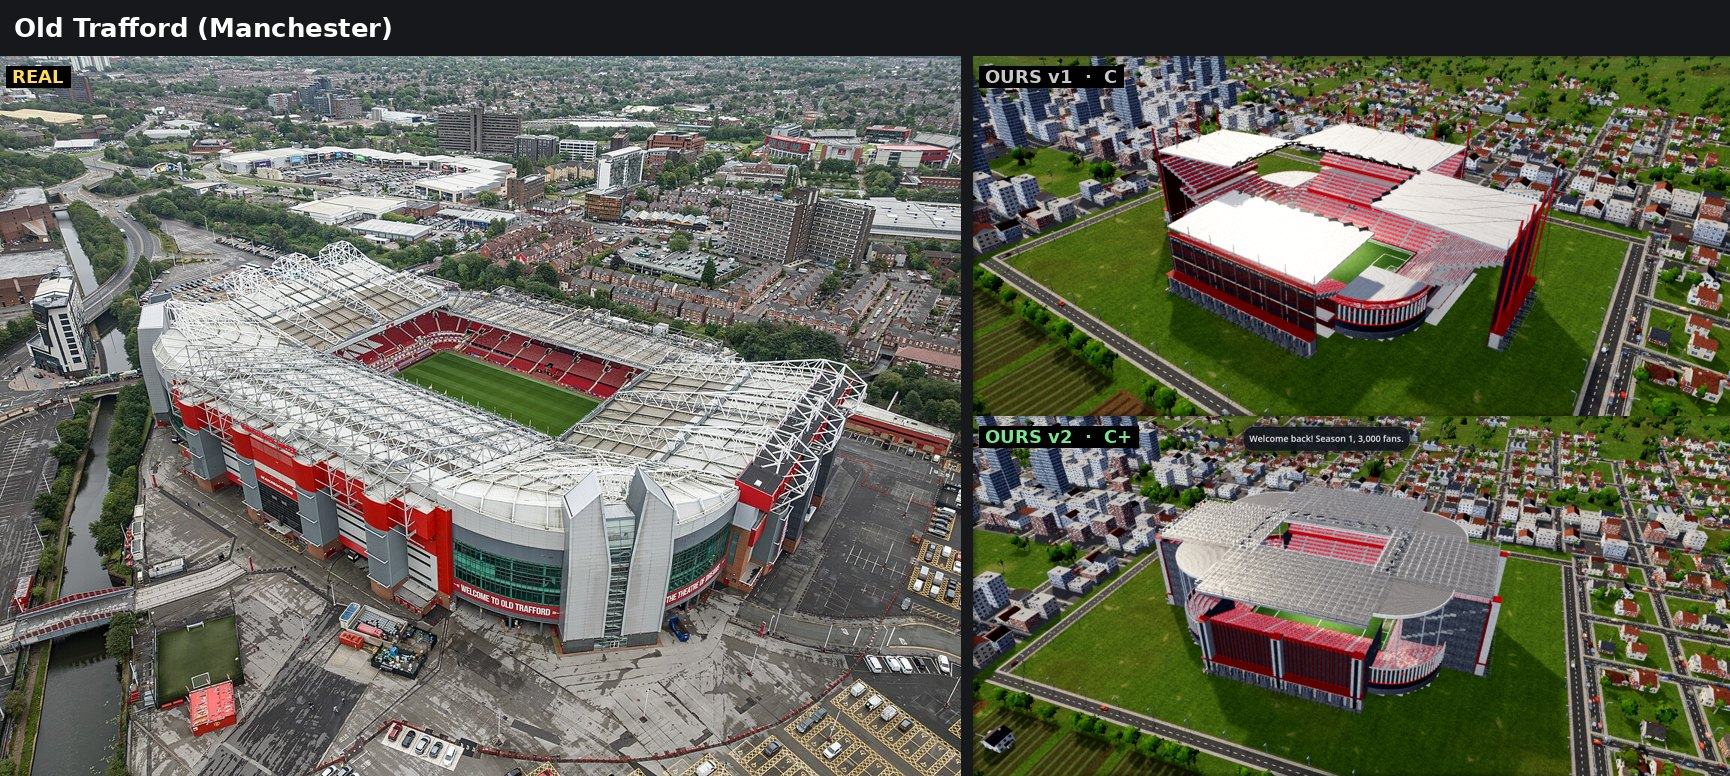
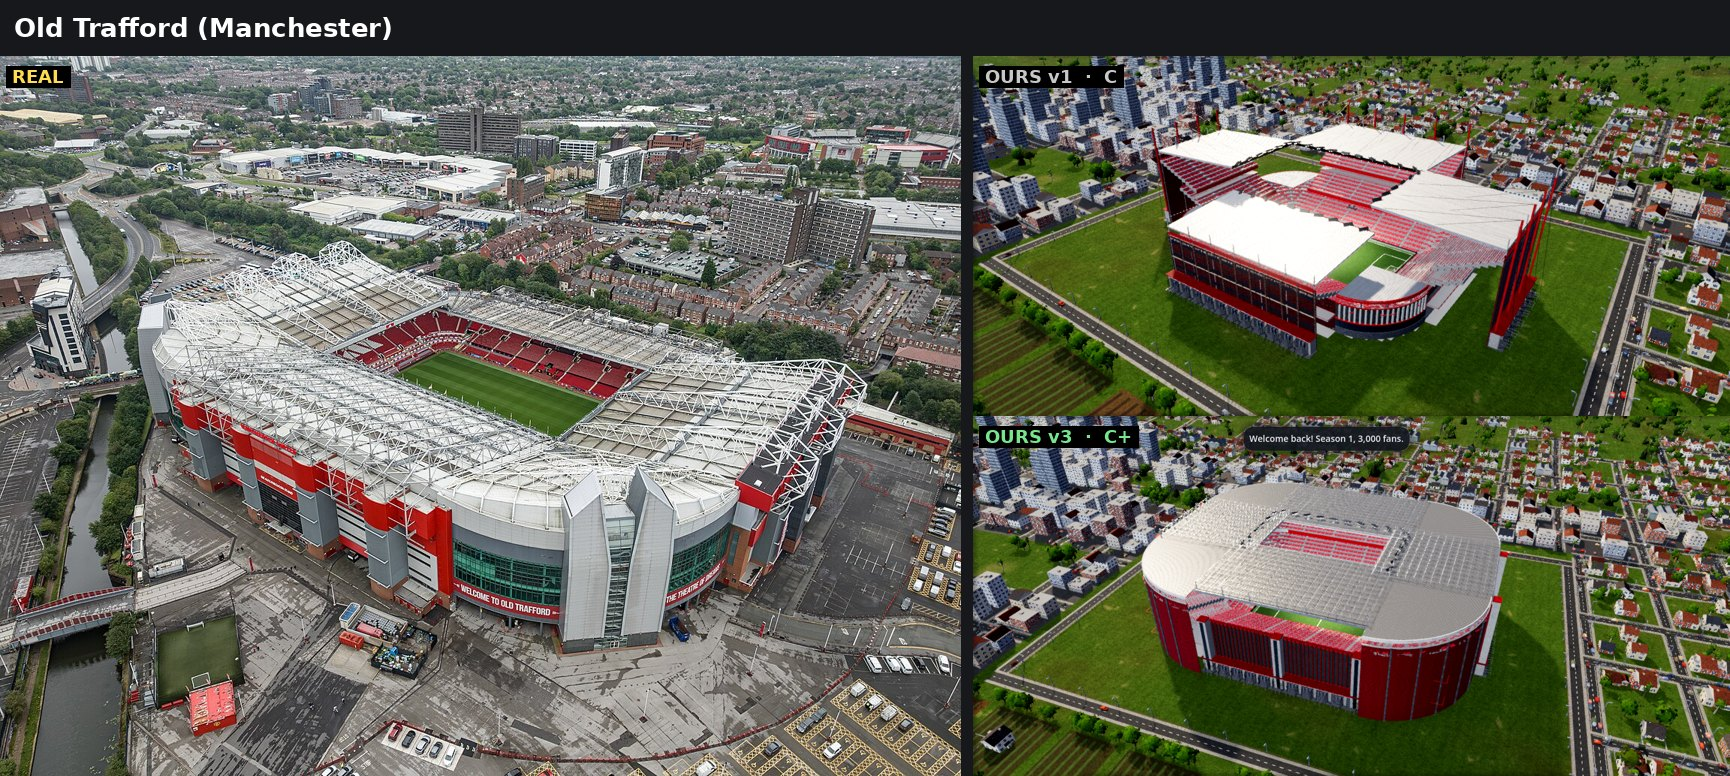
Old Trafford v3: tiered corners close the bowl; challenge notes
Claude-Session: https://claude.ai/code/session_019GL9DZKUN4T6LdW8KYydwH

diff --git a/RECREATION_CHALLENGE.md b/RECREATION_CHALLENGE.md
@@ -13,7 +13,7 @@ sides: `docs/recreation/compare/`.
 |---|---|---|---|---|
 | Signal Iduna Park | D+ | C+ | Yellow A-frame pylons outside the roof, one continuous roof ring, rounded corners, white steel trusses on top, glazed facade with the yellow band | Pylons still slimmer and fewer than the real 8; roof sheeting reads as fine noise from the air; the real roof opening is pitch-sized, ours is smaller; seats should be black with yellow blocks (seat patterns exist; now used in v3); no Borusseum/forecourt |
 | Anfield | C- | C | White roofs with the long top trusses, the tall Main Stand, glazed and closed roof ends, player banners | The Main Stand's roof should fold down at the ends (a cranked roof shape); its white cladding reads as brick in our closed ends (paint choice); the real ground is a tight rectangle with square corners and no roof ring; terraced streets right up to it |
-| Old Trafford | C | C+ | White space-frame roof over a continuous ring, red-and-grey cladding, rounded corners | The roof covers too much (real: pitch clearly visible); the glass corner atrium and the grey/red blocky facade bays; the canal and railway beside it |
+| Old Trafford | C | C+ (v3) | White space-frame roof over a continuous ring, red cladding; v3: 3-tier corners make one continuous bowl (99,750 places), corner walls take the stand's paint | Ours is a rounded oval where the real one is a rectangle with squarer corners; the roof covers too much (real: pitch clearly visible); the grey bays between red panels; the glass corner atrium (now a piece) |
 | San Siro | D+ | C- (v3: see below) | Ramp towers now stand outside the bowl as banded drums; upper tiers close their ends | Read as a tall box of vertical fins, not the low curved stack of open tiers; the giant red box girders; an oval plan. v3 adds the "open tiers" facade and box-girder roof supports |
 
 What round 2 added to the game (all player tools, not special cases):
@@ -27,7 +27,8 @@ New gaps found in round 2 (added to BACKLOG section 12):
 - Cranked / folded roof ends (Anfield Main Stand)
 - Roof opening size as one setting for a ring roof (Old Trafford, Dortmund)
 - Corner atrium pieces (glass corner entrance blocks)
-- Oval plan for the whole bowl (San Siro) - still the biggest structural gap
+- Oval plan for the whole bowl (San Siro) - partly answered: 3-tier rounded corners now close the bowl
+- Corner stands were never limited; the round 1-2 scripts just built them single-tier. Round 3 uses tiered corners
 - Metal roof sheeting needs a far-distance LOD so it reads smooth from the air
 
 ## Round 1
